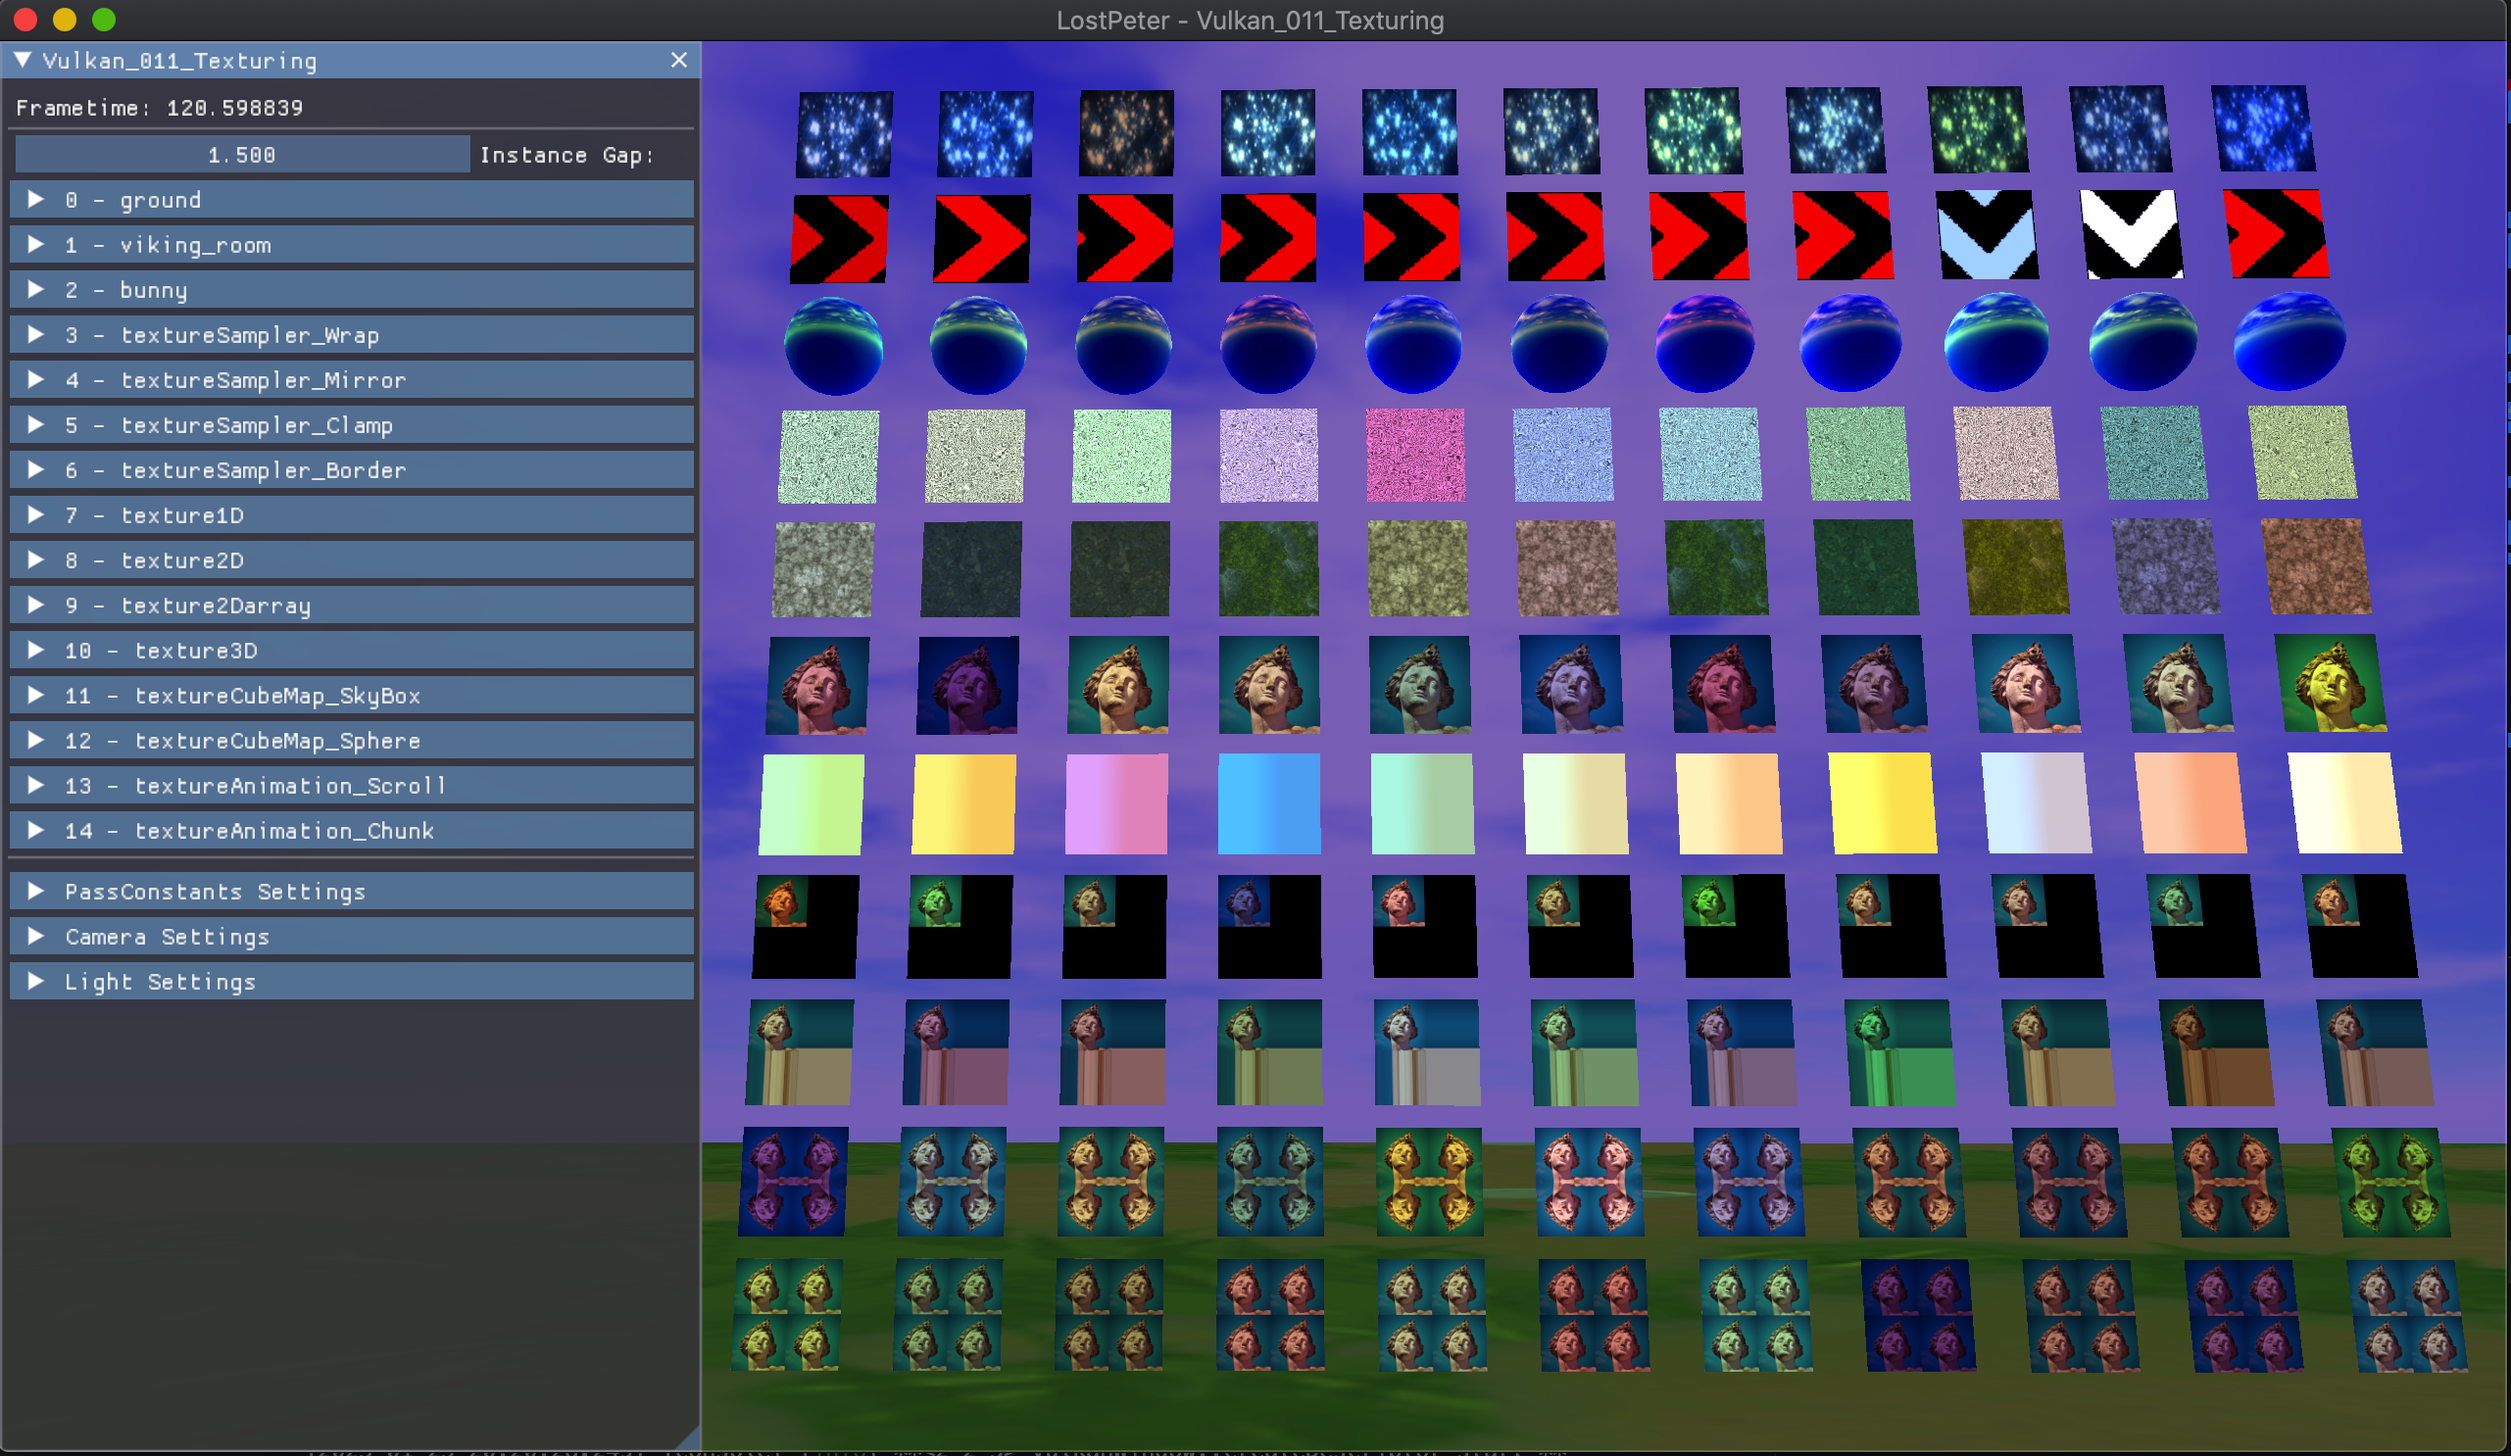
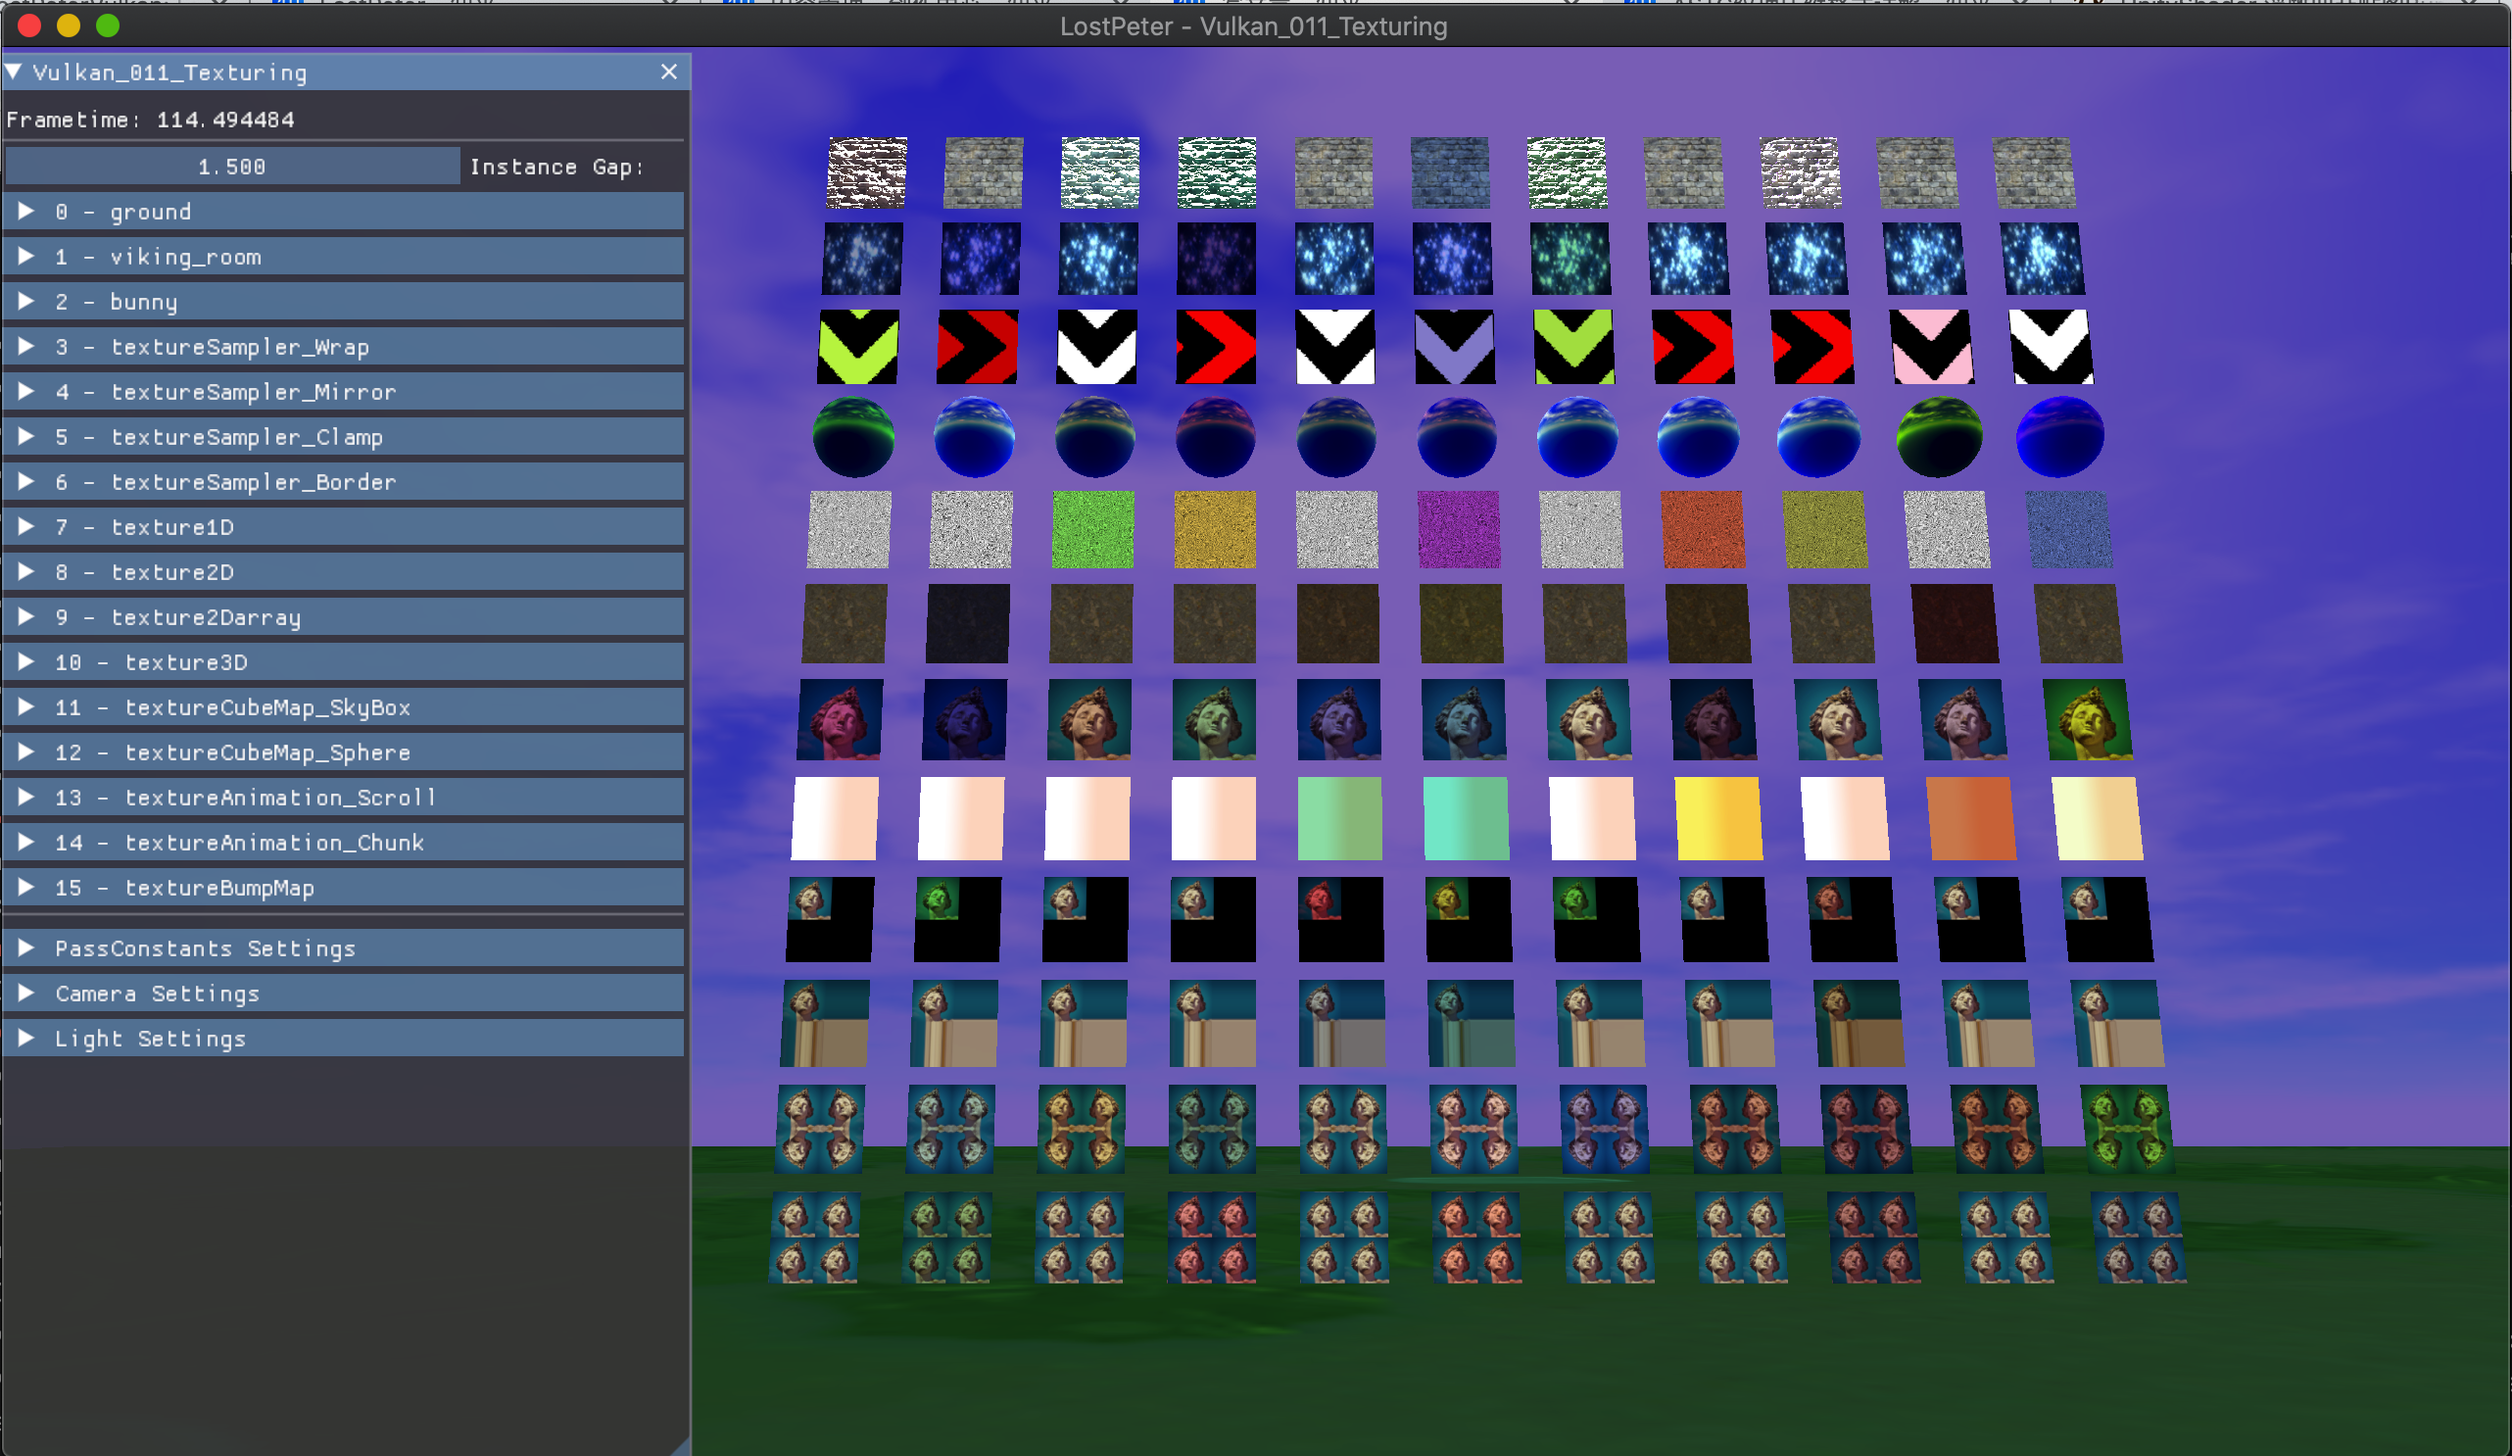
LostPeterVulkan: sample011: vulkan_011_texturing，update,  TextureBumpMap

diff --git a/Sample/vulkan_011_texturing/share/vulkan_011_texturing.cpp b/Sample/vulkan_011_texturing/share/vulkan_011_texturing.cpp
@@ -544,6 +544,30 @@ static bool g_isRotateModels[g_ModelCount] =
 
 };
 
+static bool g_isLightingModels[g_ModelCount] =
+{
+    true, //ground
+    true, //viking_room
+    true, //bunny
+
+////Basic-Level Texture Operation
+    true, //textureSampler_Wrap
+    true, //textureSampler_Mirror
+    true, //textureSampler_Clamp
+    true, //textureSampler_Border
+    true, //texture1D
+    true, //texture2D
+    true, //texture2Darray
+    true, //texture3D
+    true, //textureCubeMap_SkyBox
+    true, //textureCubeMap_Sphere
+    true, //textureAnimation_Scroll
+    true, //textureAnimation_Chunk
+
+////High-Level Texture Operation
+    false, //textureBumpMap
+};
+
 
 
 void Vulkan_011_Texturing::ModelTexture::UpdateTexture()
@@ -614,7 +638,7 @@ Vulkan_011_Texturing::Vulkan_011_Texturing(int width, int height, std::string na
     this->cfg_texture_Path = "Assets/Texture/texture2d.jpg";
 
     this->cfg_cameraPos = glm::vec3(-2.5f, 2.0f, -20.0f);
-    this->cfg_cameraLookTarget = glm::vec3(-2.5f, 5.0f, 0.0f);
+    this->cfg_cameraLookTarget = glm::vec3(-2.5f, 6.0f, 0.0f);
     this->mainLight.common.x = 0; //Directional Type
     this->mainLight.common.y = 1.0f; //Enable
     this->mainLight.common.z = 11; //Ambient + DiffuseLambert + SpecularBlinnPhong Type
@@ -806,6 +830,7 @@ void Vulkan_011_Texturing::rebuildInstanceCBs(bool isCreateVkBuffer)
             materialConstants.factorSpecular = MathUtil::RandomColor(false);
             materialConstants.shininess = MathUtil::RandF(10.0f, 100.0f);
             materialConstants.alpha = MathUtil::RandF(0.2f, 0.9f);
+            materialConstants.lighting = g_isLightingModels[i];
             float fValue = MathUtil::RandF(0.0f, 1.0f);
             if (j == pModelObject->countInstance / 2 || fValue >  0.5f)
             {
@@ -863,9 +888,9 @@ void Vulkan_011_Texturing::rebuildInstanceCBs(bool isCreateVkBuffer)
                     if (p == 1)
                     {
                         if (j == pModelObject->countInstance / 2)
-                            materialConstants.aTexLayers[p].indexTextureArray = 5.0f;
+                            materialConstants.aTexLayers[p].indexTextureArray = 0.0f;
                         else
-                            materialConstants.aTexLayers[p].indexTextureArray = MathUtil::RandF(1.0f, 15.0f);
+                            materialConstants.aTexLayers[p].indexTextureArray = MathUtil::RandF(2000.0f, 10000.0f);
                     }
                 } 
 
@@ -1643,7 +1668,7 @@ bool Vulkan_011_Texturing::beginRenderImgui()
                                         {
                                             if (pModelObject->nameModel == g_Model_TextureBumpMap) //TextureBumpMap
                                             {
-                                                if (ImGui::DragFloat(nameIndexTextureArray.c_str(), &mat.aTexLayers[p].indexTextureArray, 1.0f, 1.0f, 100.0f))
+                                                if (ImGui::DragFloat(nameIndexTextureArray.c_str(), &mat.aTexLayers[p].indexTextureArray, 0.5f, 0.0f, 10000.0f))
                                                 {
                                                     
                                                 }
